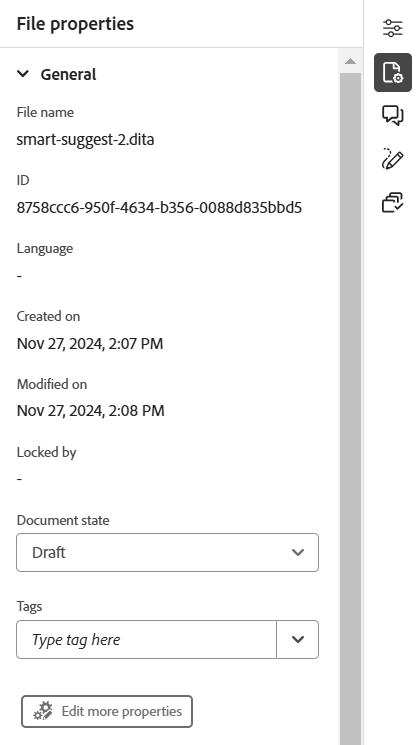
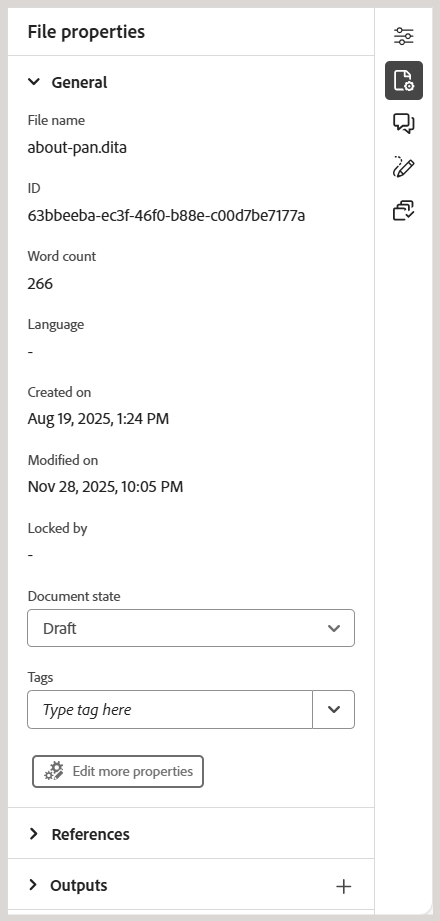
updated the word count feature
Updated the right panel doc

diff --git a/help/product-guide/user-guide/web-editor-right-panel.md b/help/product-guide/user-guide/web-editor-right-panel.md
@@ -70,6 +70,11 @@ The General section gives you access to the following features:
 
 - **File name**: Displays the filename of the selected topic. The filename is hyperlinked to the properties page of the selected file.
 - **ID**: Displays the ID of the selected topic.
+- **Word count**: Displays the total word count of the corresponding DITA topic or map, treating words separated by spaces as two distinct words. For all cross-references, the display text is included in the word count. Keys are excluded from the word count.
+
+    >[!NOTE]
+    >
+    > For existing articles, if you are using 2025.11.0 or previous release of Experience Manager Guides as a Cloud Service, the **Word count** field is displayed in the Right panel only after you update and save the content of an existing DITA topic or map.
 - **Tags**: These are the metadata tags of the topic. They are set from the tags field in the properties page. You can type or select them from the dropdown.  The tags appear under the dropdown. To delete a tag, select the cross icon next to the tag. 
 -  **Edit more properties**: You can edit more properties from the file properties page.  
 - **Language**: Shows the language of the topic. It is set from the language field in the properties page.
